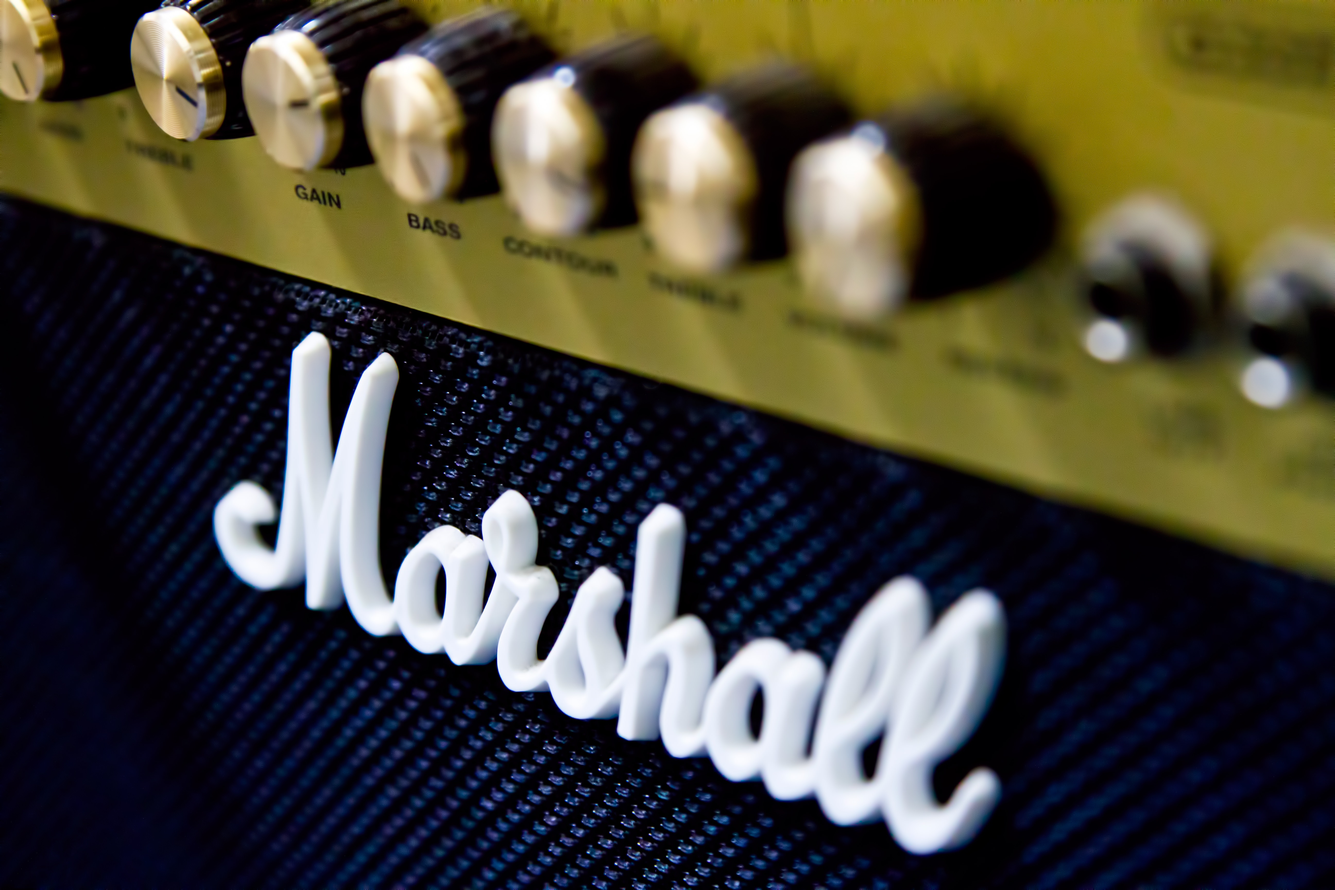
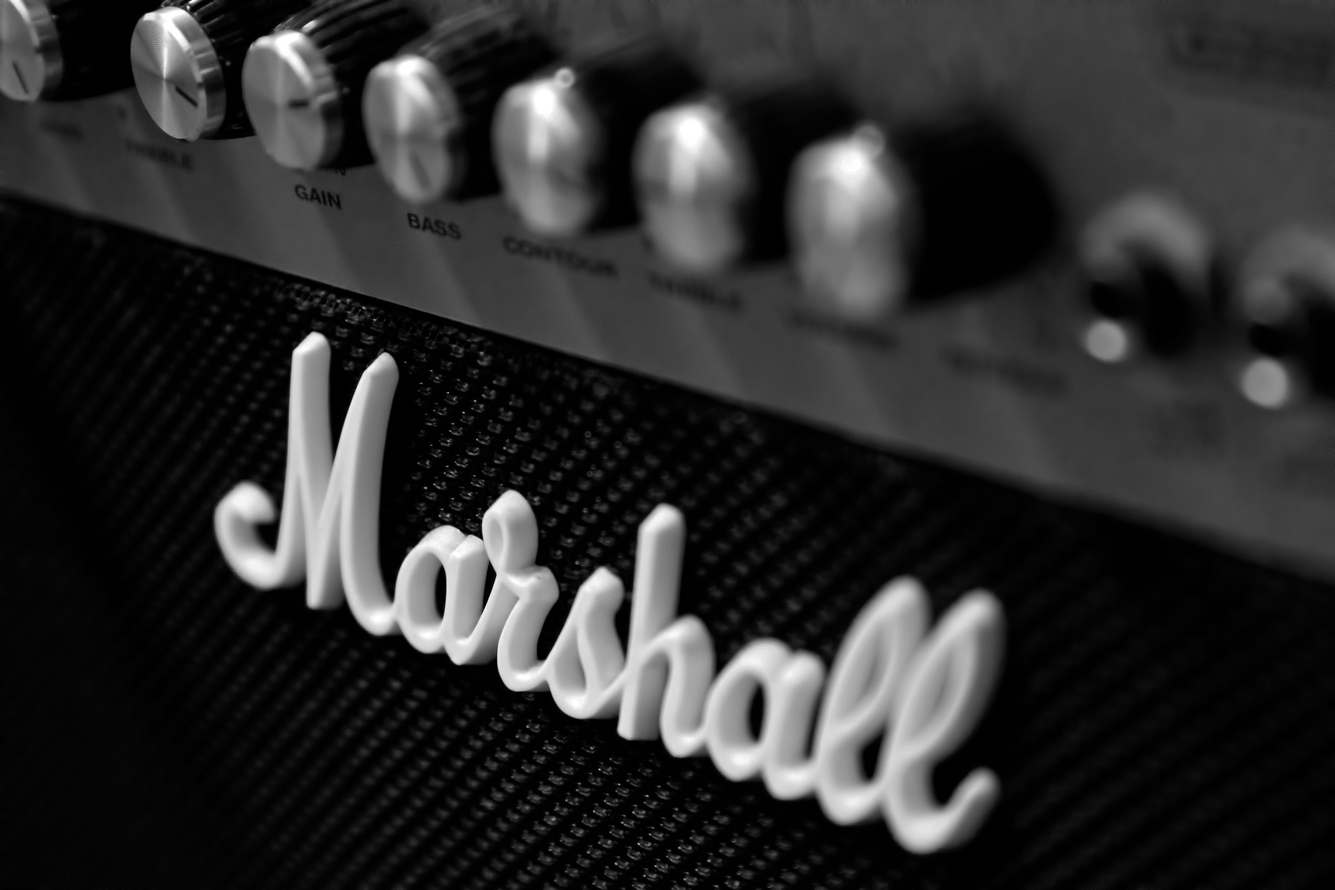
各種変更
* 背景画像変更
* モバイル対応っぽい横幅の変更

diff --git a/docs/style.css b/docs/style.css
@@ -1,1 +1,1 @@
-@font-face{font-family:"M PLUS Rounded 1c";src:url("https://fonts.googleapis.com/css?family=M+PLUS+Rounded+1c")}html{margin:0;padding:0}body{width:100vw;height:100vh;background-color:#fff;background-image:url("/images/background.jpg");background-position:center center;background-repeat:no-repeat;background-attachment:fixed;background-size:cover;color:#333}.page{width:800px;margin:0 auto}h1.title{color:#eee;padding:20px 0;margin-bottom:0;font-size:4em;font-weight:bold;text-align:center}h2.podcastNumber{margin-bottom:0;font-weight:bold;font-size:1em}h2.podcastTitle{margin:0;padding:0px 0px 20px 0px;font-weight:bold;font-size:2em}section.section{background:rgba(255,255,255,0.8)}.anchor{text-align:center}.podcasts{margin:20px;padding:40px}.description{margin:20px 0}.notes{padding:20px 0}
+@font-face{font-family:"M PLUS Rounded 1c";src:url("https://fonts.googleapis.com/css?family=M+PLUS+Rounded+1c")}html{margin:0;padding:0}body{width:100vw;height:100vh;background-color:#fff;background-image:url("/images/background.jpg");background-position:center center;background-repeat:no-repeat;background-attachment:fixed;background-size:cover;color:#333}@media screen and (max-width: 840px){.page{width:80vw;margin:0 auto}}@media screen and (min-width: 841px){.page{width:800px;margin:0 auto}}h1.title{color:#eee;padding:20px 0;margin-bottom:0;font-size:4em;font-weight:bold;text-align:center}h2.podcastNumber{margin-bottom:0;font-weight:bold;font-size:1em}h2.podcastTitle{margin:0;padding:0px 0px 20px 0px;font-weight:bold;font-size:2em}section.section{background:rgba(255,255,255,0.8);border-radius:10px;padding-bottom:40px}.anchor{text-align:center}.podcasts{margin:20px;padding:40px}.description{margin:20px 0}.notes{padding:20px 0}

diff --git a/sass/style.scss b/sass/style.scss
@@ -18,10 +18,24 @@ body {
     background-size: cover;
     color:#333;
 }
-.page {
-    width: 800px;
-    margin: 0 auto;
+
+@media screen and (max-width:840px) {
+    .page {
+        width: 80vw;
+        margin: 0 auto;
+    }
+
 }
+
+@media screen and (min-width:841px) {
+    .page {
+        width: 800px;
+        margin: 0 auto;
+    }
+
+}
+
+
 h1.title {
     color: #eee;
     padding:20px 0;
@@ -45,6 +59,8 @@ h2.podcastTitle {
 
 section.section {
     background:rgba(255,255,255,0.8);
+    border-radius:10px;
+    padding-bottom:40px;
 }
 .anchor {
     text-align: center;
@@ -53,6 +69,7 @@ section.section {
 .podcasts {
     margin:20px;
     padding: 40px;
+
 }
 
 .description {
